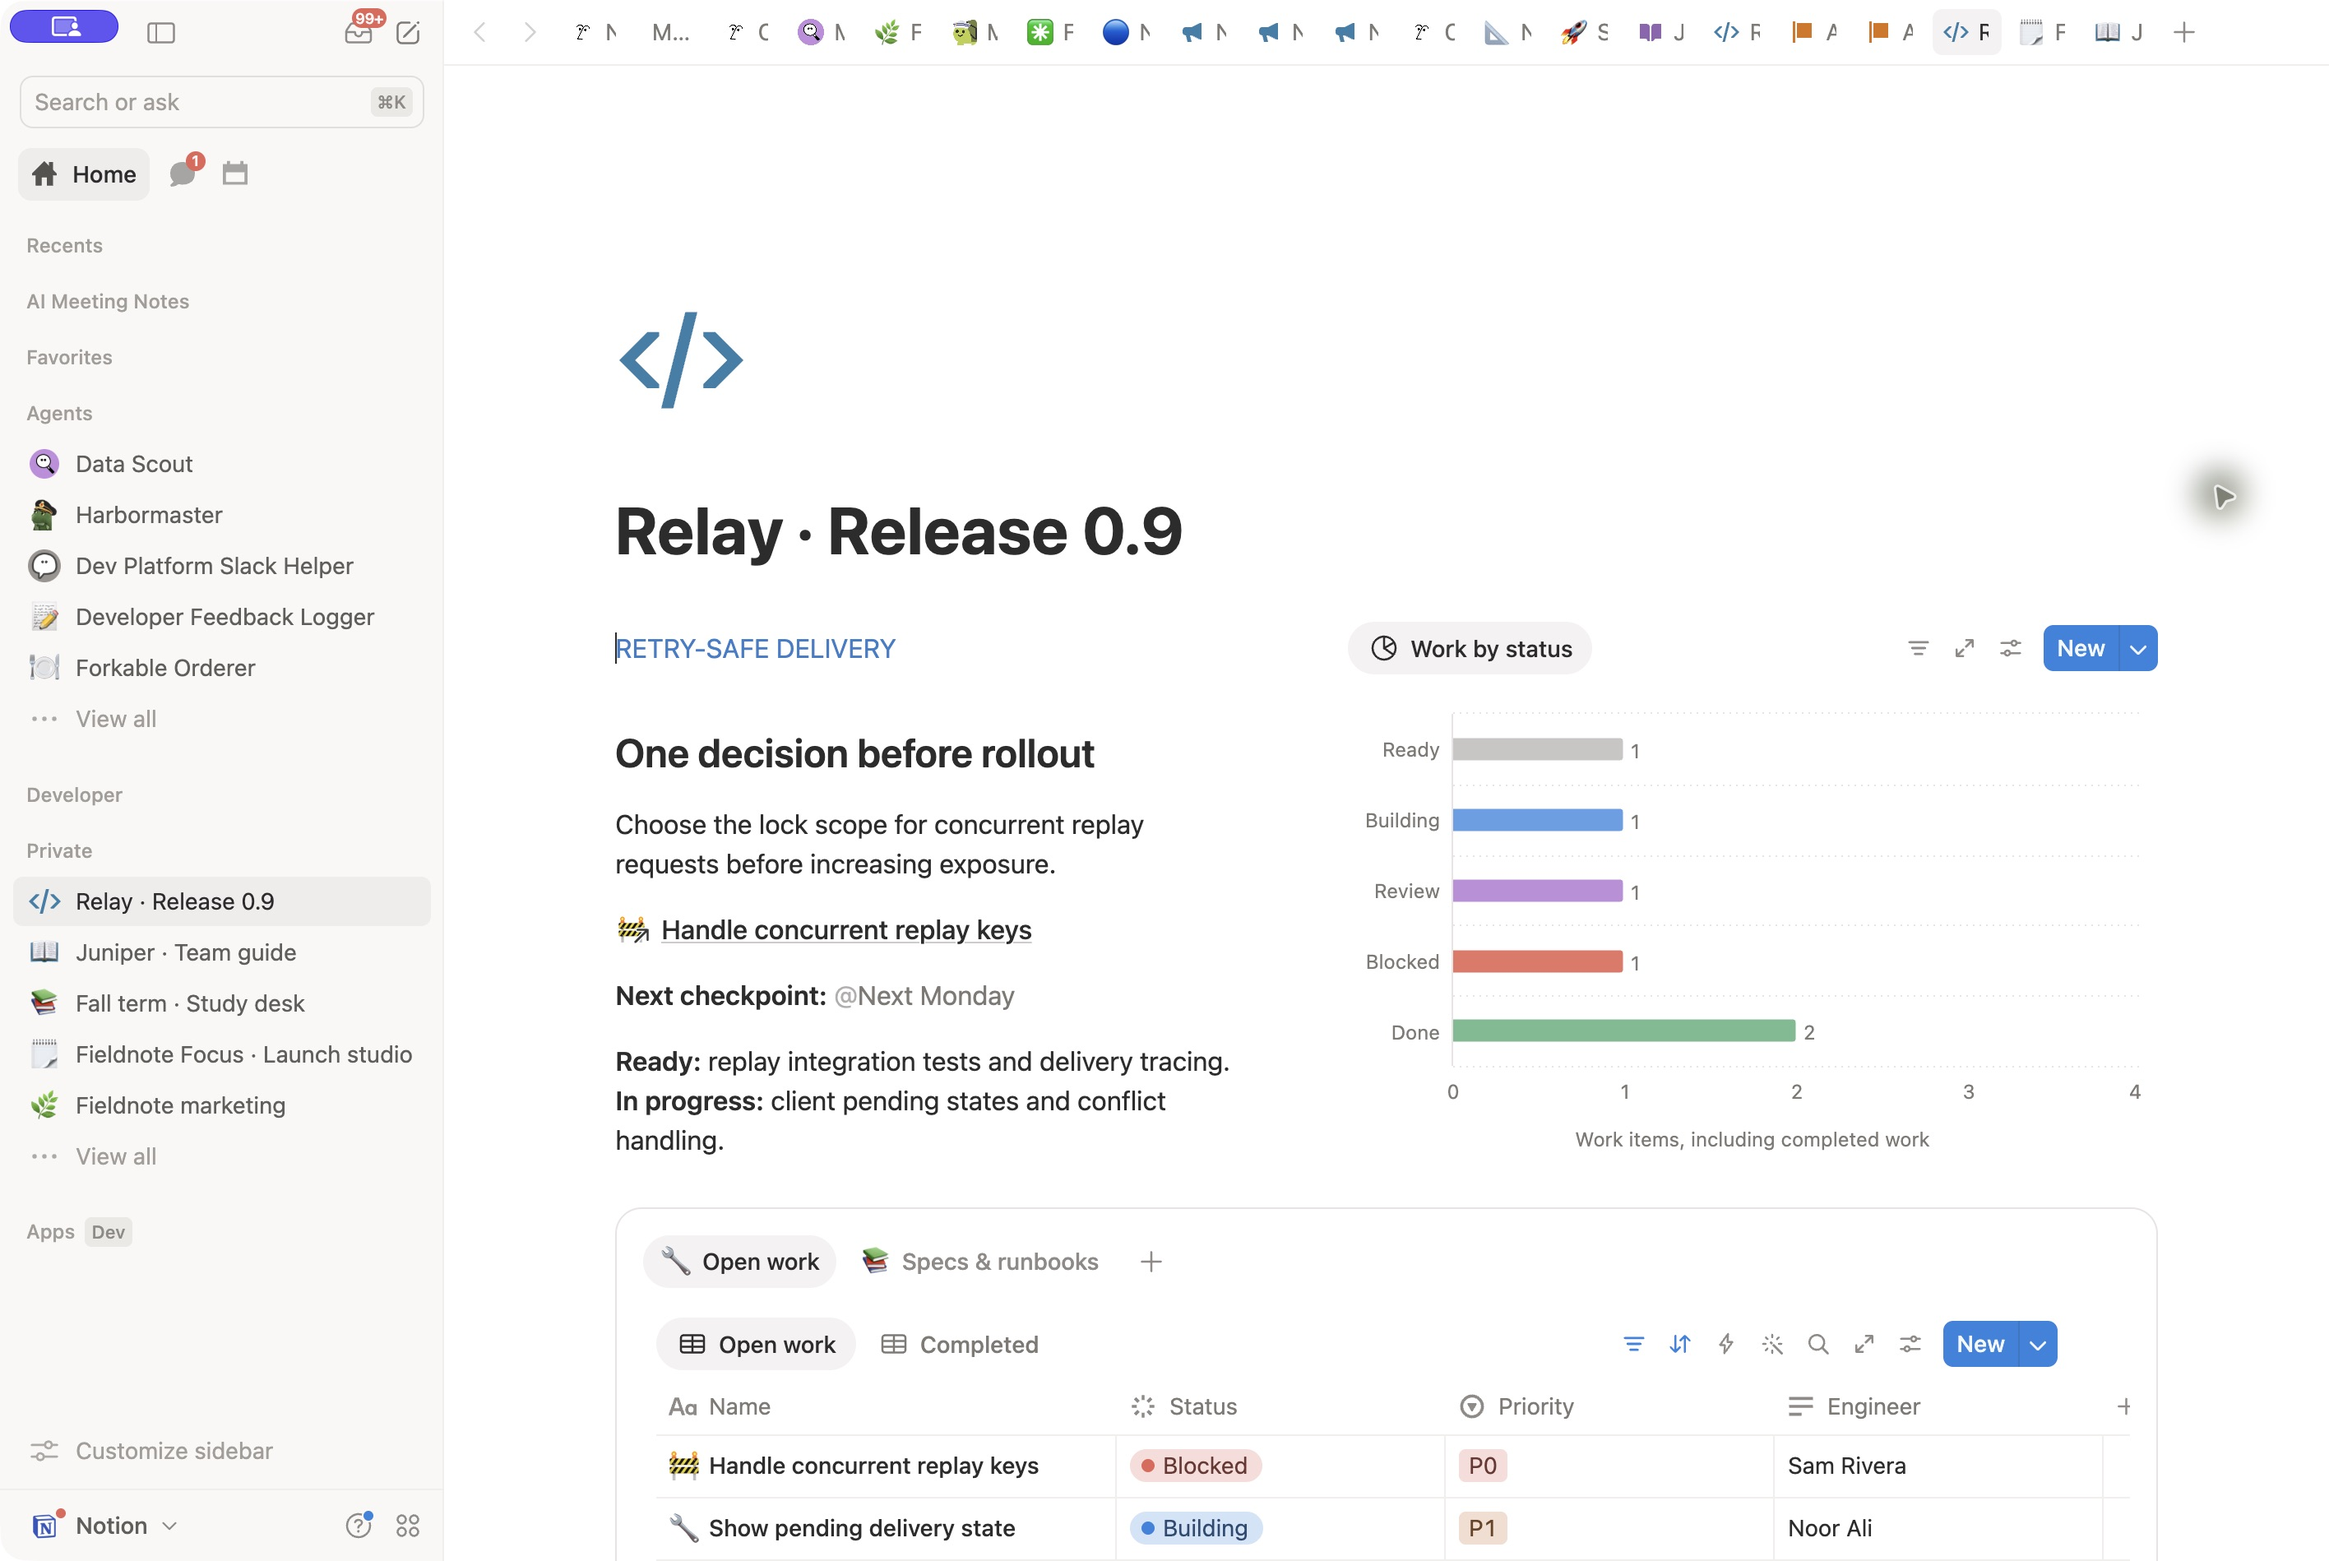
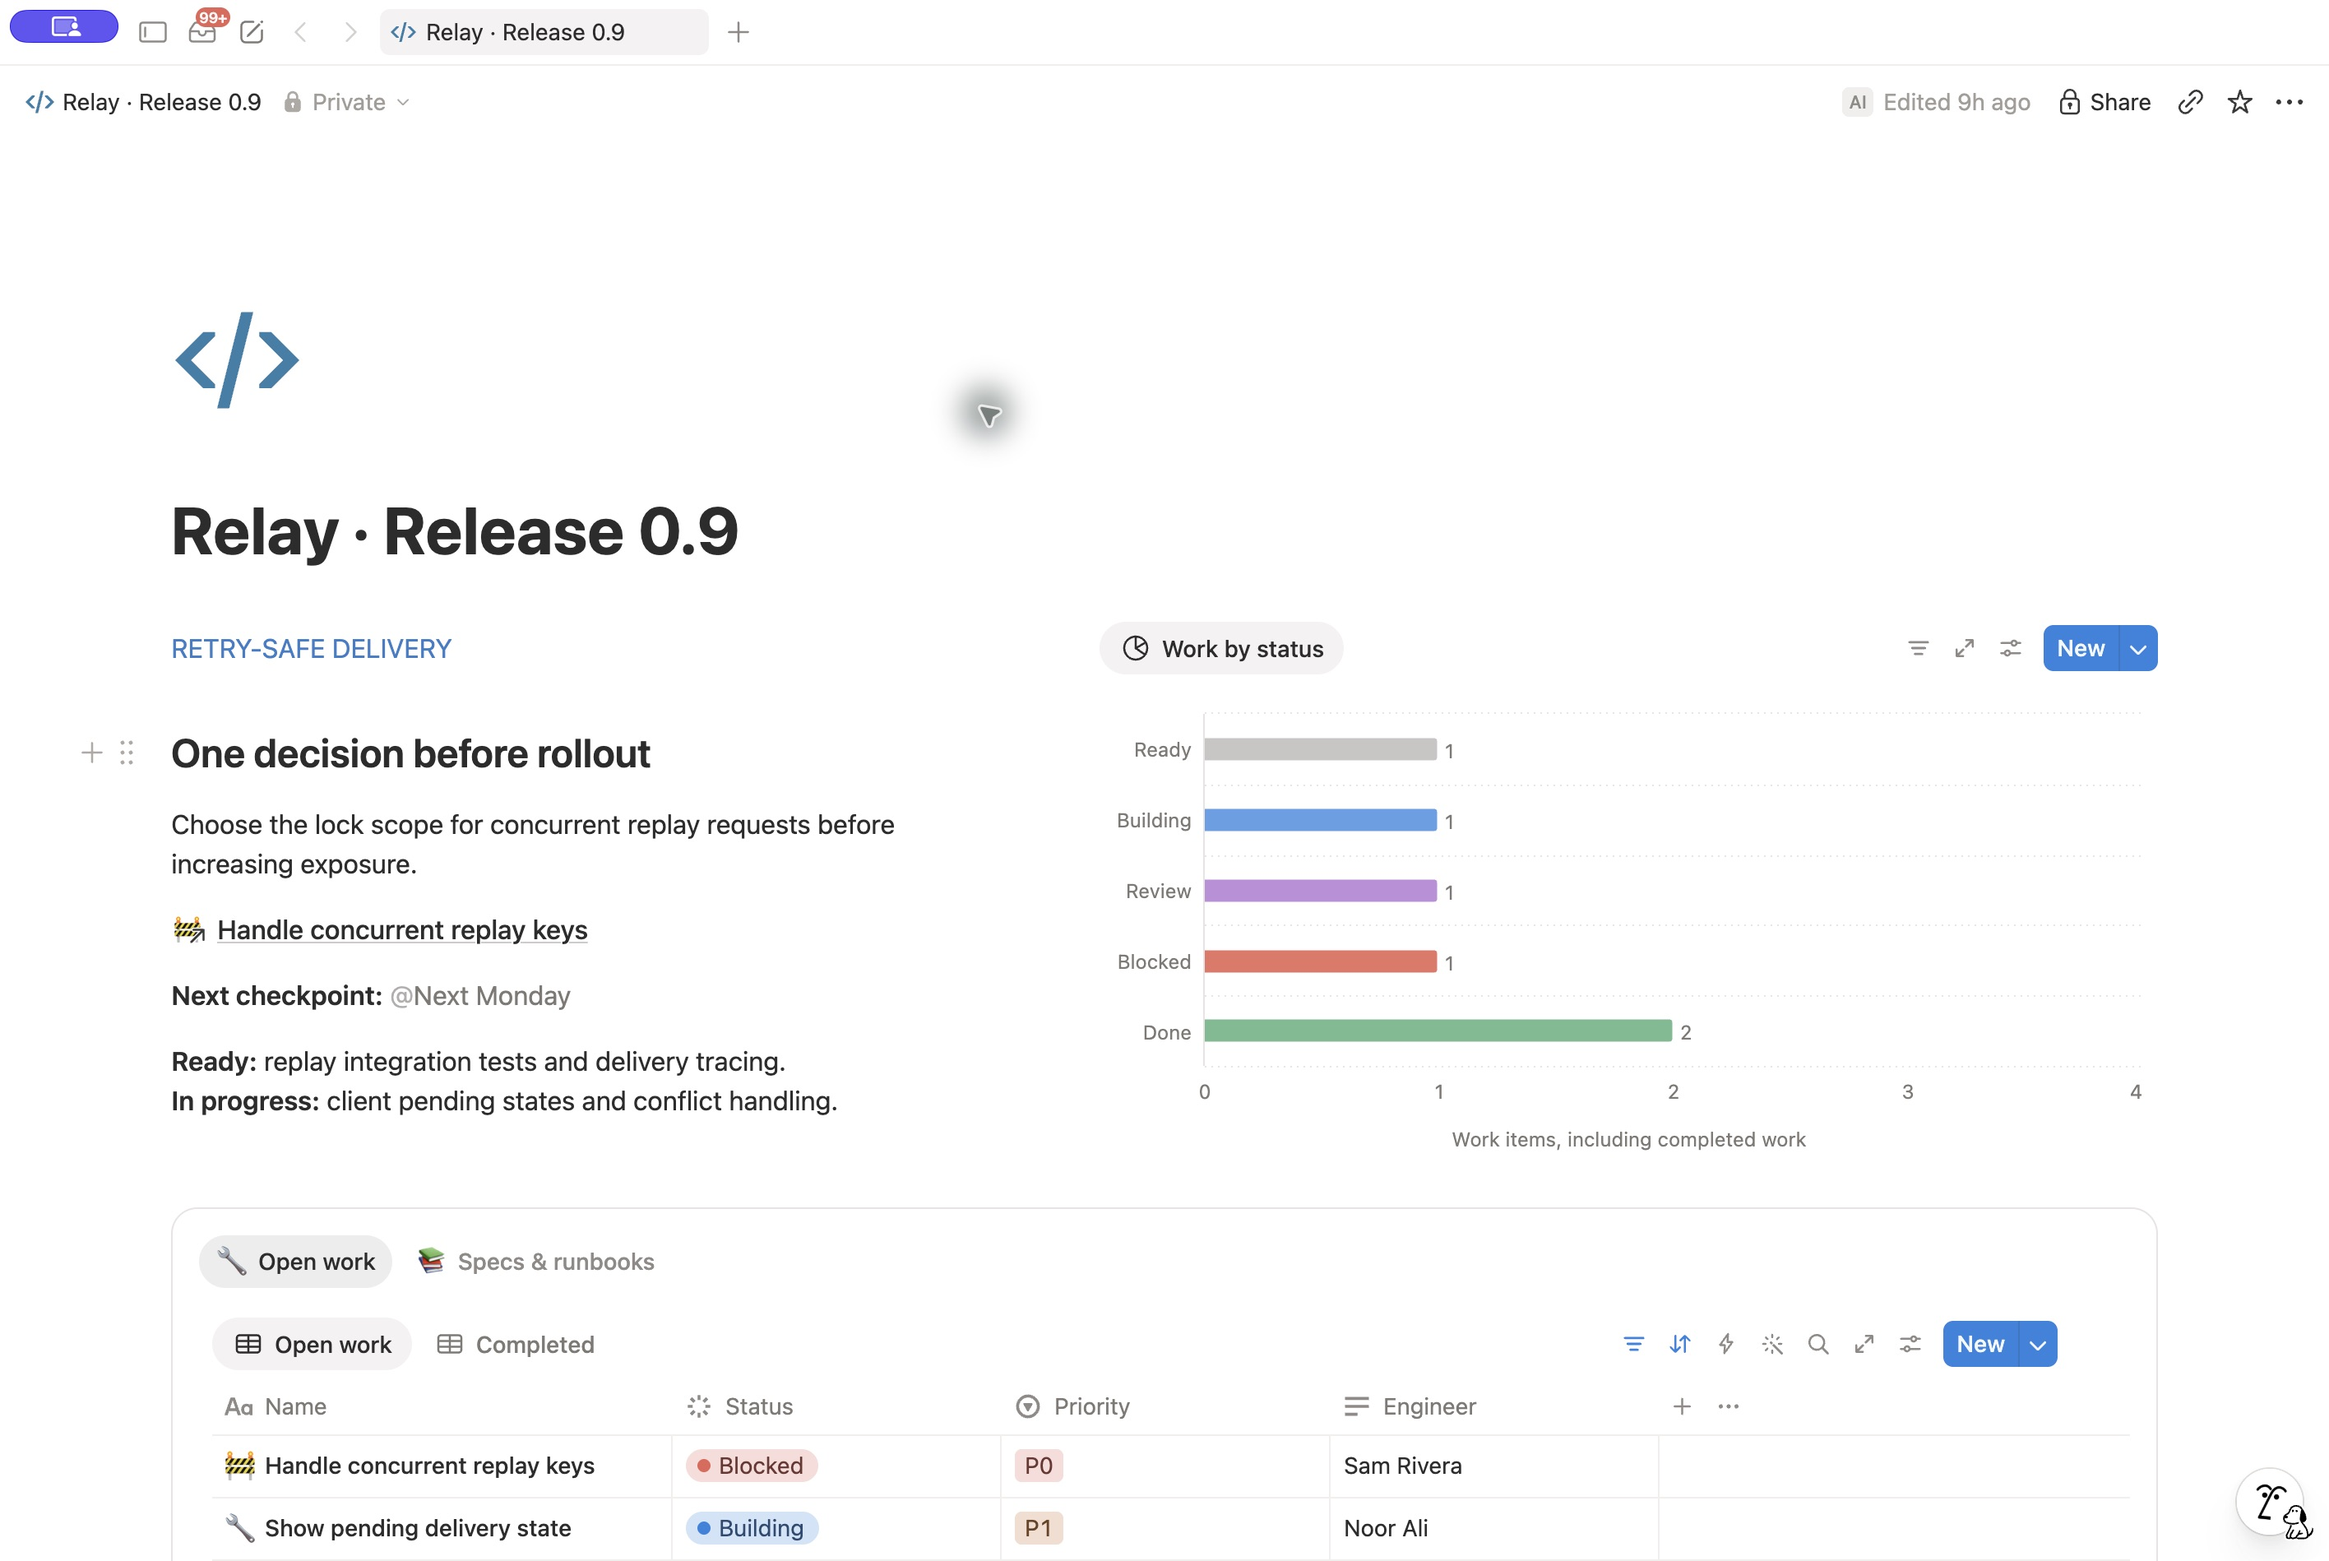
Refresh engineering previews with sidebar closed and one tab

diff --git a/skills/mcp-clients/build-my-engineering-wiki/evaluations/design-review.md b/skills/mcp-clients/build-my-engineering-wiki/evaluations/design-review.md
@@ -13,6 +13,10 @@ describes the page before this refinement.
 
 ![Technical library with proposal, accepted decision and current runbook](images/technical-library.png)
 
+Screenshots refreshed on 2026-10-30 in the same Notion Dev window with one
+app tab open and the sidebar closed. No page content or skill guidance changed
+during this capture refresh.
+
 ## Changes and inspection
 
 - Replaced the test-oriented page title with a short release title and a blue
@@ -27,8 +31,8 @@ describes the page before this refinement.
   Accepted and Current states.
 - Walked home → blocker → details → related spec → home. The spec has substantive
   behavior, unresolved decisions and rollout gates; its related work is preserved.
-- Used the desktop app's Actual Size command and kept the sidebar visible for
-  capture. No new window was opened. Narrow-screen behavior was not tested.
+- Used the desktop app's Actual Size command and inspected with the sidebar visible
+  during the original review. No new window was opened. Narrow-screen behavior was not tested.
 
 ## MCP capability gaps
 
